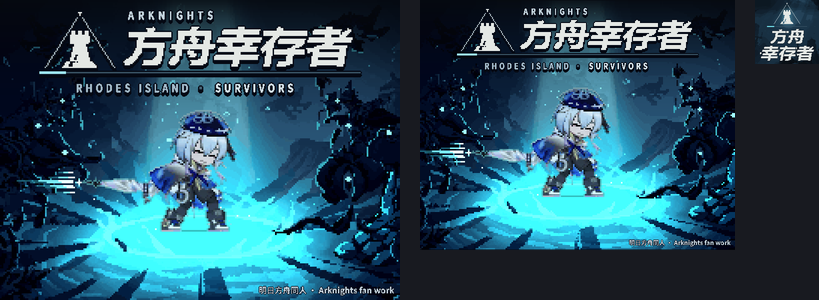
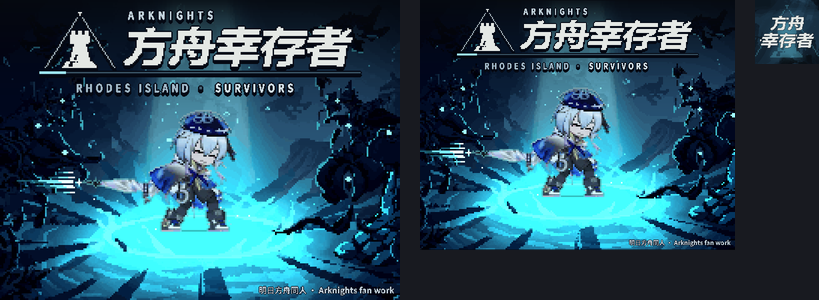
Toy 图标改 L4：只留「方舟 / 幸存者」两行字居中，塔形徽记放大调暗作水印，去掉悬空细线（用户 11-08）

Changed region(s): [[0.9158, 0.03, 1.0, 0.21]]

diff --git a/art/promo/toy/build_toy_icon_logo.py b/art/promo/toy/build_toy_icon_logo.py
@@ -2,7 +2,8 @@
 L1 徽记单独放大 4 倍 + 下方细线（左端青色加粗，同封面标题）；深海青底；
 L2 徽记 2 倍 + 「方舟 / 幸存者」两行 2 倍；
 L3 同 L1，底换成标题页沉船背景；
-L23 = L2 的版式 + L3 的底（11-08 用户定稿「L2+L3」），字加深色描边压住底图。
+L23 = L2 的版式 + L3 的底（11-08 用户选「L2+L3」），字加深色描边压住底图；
+L4 定稿（11-08 用户同意改）：去掉悬空细线，只留两行字居中，徽记放大调暗作水印。
 用法：python art/promo/toy/build_toy_icon_logo.py   出到 build/toy_icon/
 """
 from pathlib import Path
@@ -139,13 +140,49 @@ def l2(bg=None):
     return underline(cv, 96, S - 96, y + m.height + 18, 4)
 
 
+def text_rows(cv, k, y0, row_gap):
+    rows = [CHARS[:2], CHARS[2:]]
+    gap = 2 * k
+    yy = y0
+    for r in rows:
+        ims = [up(c, k) for c in r]
+        w = sum(i.width for i in ims) + gap * (len(ims) - 1)
+        xx = (S - w) // 2
+        h = max(i.height for i in ims)
+        for i in ims:
+            cm = i.split()[3]
+            sh = Image.new("RGBA", i.size, (6, 12, 20, 255))
+            for dx, dy in ((-k, 0), (k, 0), (0, -k), (0, k), (k, k)):
+                cv.paste(sh, (xx + dx, yy + h - i.height + dy), cm)
+            cv.alpha_composite(i, (xx, yy + h - i.height))
+            xx += i.width + gap
+        yy += h + row_gap
+    return cv
+
+
+def l4(bg):
+    """11-08 改：只留一个视觉中心——「方舟 / 幸存者」两行字居中；徽记放大调暗做水印，去掉悬空的细线。"""
+    cv = bg
+    m = up(MARK, 5)
+    a = np.asarray(m).astype(np.float32)
+    a[..., :3] = np.array([90, 190, 215], np.float32)   # 青色剪影
+    a[..., 3] *= .34
+    wm = Image.fromarray(a.astype(np.uint8), "RGBA")
+    x, y = (S - wm.width) // 2, (S - wm.height) // 2 - 6
+    cv = glow(cv, m.split()[3], (x, y), CYAN, .18, 30)
+    cv.alpha_composite(wm, (x, y))
+    h = max(c.height for c in CHARS) * 2
+    total = 2 * h + 22
+    return text_rows(cv, 2, (S - total) // 2, 22)
+
+
 def main():
     OUT.mkdir(parents=True, exist_ok=True)
-    vs = {"L1": l1(bg_plain()), "L2": l2(), "L3": l1(bg_title()), "L23": l2(bg_title())}
+    vs = {"L1": l1(bg_plain()), "L2": l2(), "L3": l1(bg_title()), "L23": l2(bg_title()), "L4": l4(bg_title())}
     for k, v in vs.items():
         v.convert("RGB").save(OUT / f"toy_icon_{k}.png", optimize=True)
     f = ImageFont.truetype("C:/Windows/Fonts/msyh.ttc", 24)
-    lab = {"L1": "L1 徽记", "L2": "L2 徽记 + 方舟幸存者", "L3": "L3 徽记 + 标题页背景", "L23": "L2+L3 字 + 标题页背景（定稿）"}
+    lab = {"L1": "L1 徽记", "L2": "L2 徽记 + 方舟幸存者", "L3": "L3 徽记 + 标题页背景", "L23": "L2+L3", "L4": "L4 字居中 + 徽记水印"}
     sheet = Image.new("RGB", (len(vs) * (S + 24) + 24, S + 210), (24, 26, 32))
     d = ImageDraw.Draw(sheet)
     for i, (k, v) in enumerate(vs.items()):

diff --git a/art/promo/itch/cover_g/build_cover_h.py b/art/promo/itch/cover_g/build_cover_h.py
@@ -294,7 +294,7 @@ def final(key, out, it, ty, bn):
     ty.save(out / "toy/toy_poster_4x3.png", optimize=True)
     ic, nt = icon(key)
     nt.save(out / "toy/toy_poster_4x3_notext.png", optimize=True)
-    # 图标 11-08 起改用 logo 版（art/promo/toy/build_toy_icon_logo.py 的 L23），这里不再覆盖；预览里贴现行图标
+    # 图标 11-08 起改用 logo 版（art/promo/toy/build_toy_icon_logo.py 的 L4），这里不再覆盖；预览里贴现行图标
     ic = Image.open(out / "toy/toy_icon.png").convert("RGB")
     # 卡片预览：B站卡片约 400×300、itch 卡片 315×250、图标 64 —— 平滑缩小，看列表里的样子
     pv = Image.new("RGB", (400 + 20 + 315 + 20 + 64, 300), (24, 26, 32))

diff --git a/docs/90_codex_toy_cover.md b/docs/90_codex_toy_cover.md
@@ -60,7 +60,7 @@
 |---|---|---|---|
 | B站 Toy 封面（`--poster`） | `art/promo/toy/toy_poster_4x3.png` | 1200×900（4:3） | 带标题 + 同人标注 |
 | B站 Toy 封面无字版 | `art/promo/toy/toy_poster_4x3_notext.png` | 1200×900 | 同图，不放标题和标注（卡片下方自带名称时用） |
-| B站 Toy 图标（`--icon`） | `art/promo/toy/toy_icon.png` | 512×512 | 11-08 定稿 logo 版：塔形徽记 + 「方舟 / 幸存者」两行像素字 + 标题页沉船背景（`build_toy_icon_logo.py` 的 L23）；CLI 上限 512 KB、边长 ≤ 1024 |
+| B站 Toy 图标（`--icon`） | `art/promo/toy/toy_icon.png` | 512×512 | 11-08 定稿 logo 版：「方舟 / 幸存者」两行像素字居中 + 塔形徽记放大调暗作水印 + 标题页沉船背景（`build_toy_icon_logo.py` 的 L4）；CLI 上限 512 KB、边长 ≤ 1024 |
 | 预览 | `art/promo/toy/toy_poster_preview.png` | 819×300 | Toy 卡片 400×300 · itch 卡片 315×250 · 图标 64 缩小效果 |
 | itch 封面 | `art/promo/itch/cover_630x500.png` | 630×500 | 带标题 + 同人标注 |
 | itch 横幅 | `art/promo/itch/banner_960x400.png` | 960×400 | 标题在左，水月在右 |
